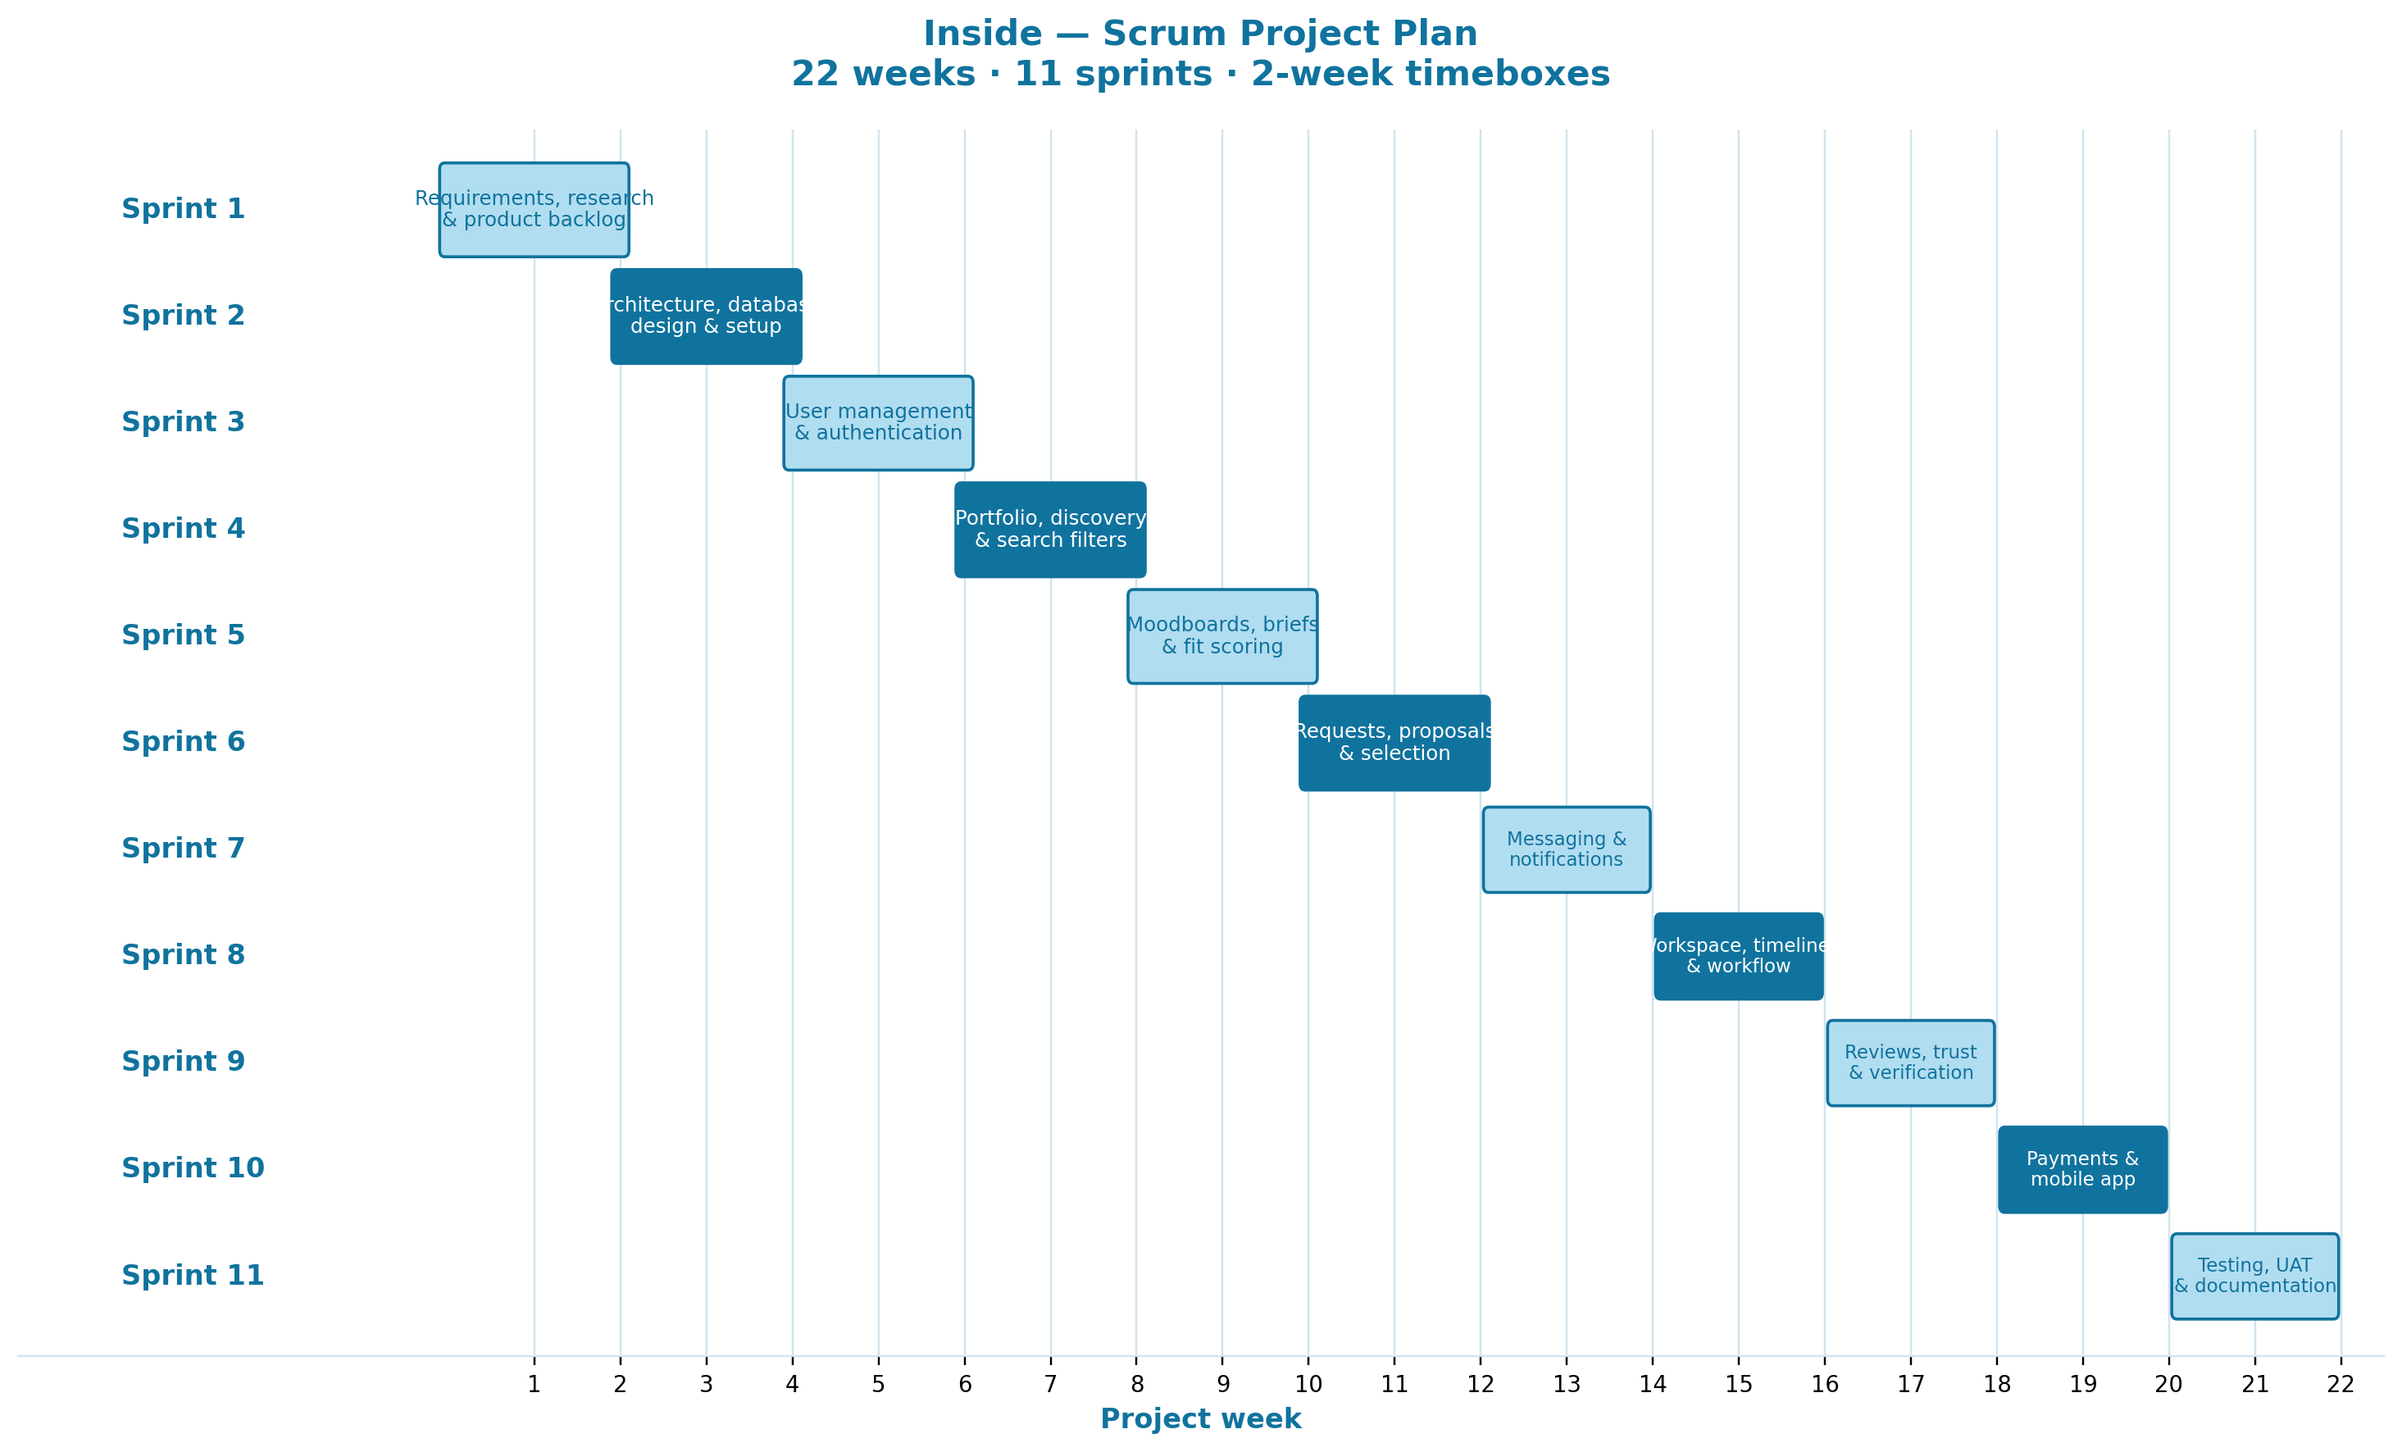
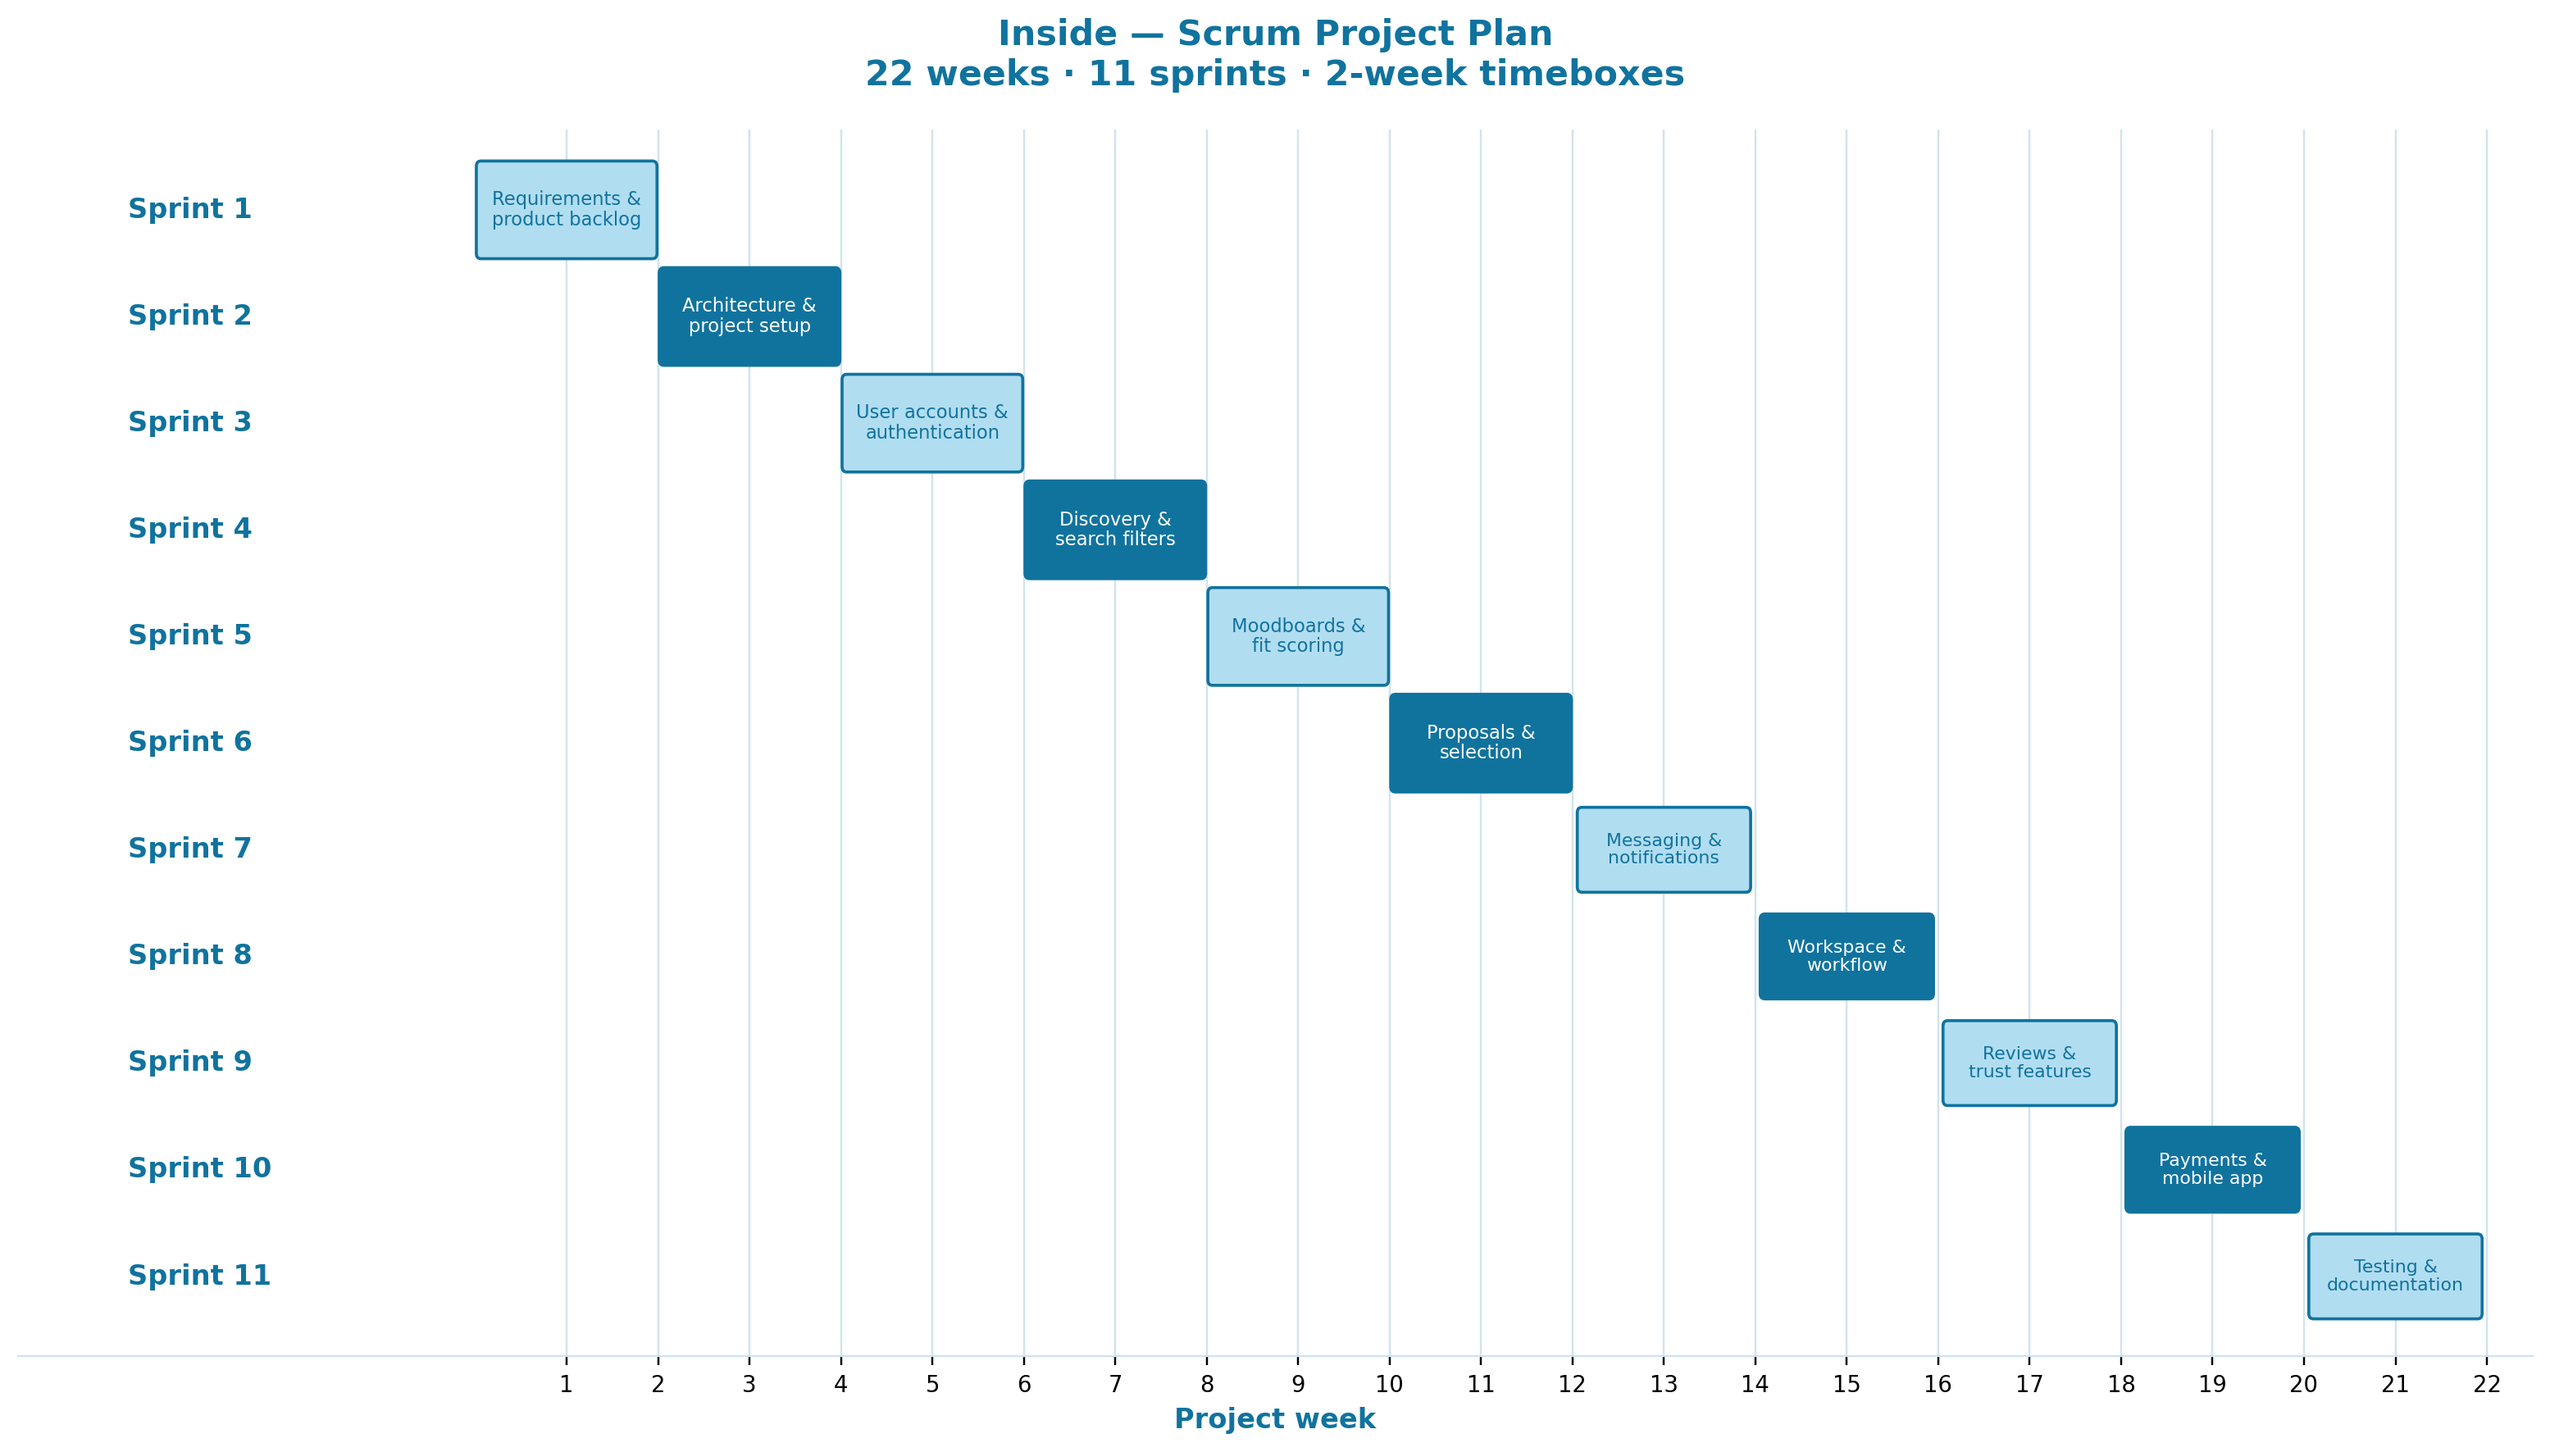
docs(proposal): Update diagrams and Gantt chart for project clarity
- Replace the Gantt chart image with an updated version to reflect the latest project timeline.
- Revise architecture diagrams and related documentation to incorporate new brand colors and improve visual consistency.
- Enhance the Gantt chart generation script for better layout and readability of sprint activities.
- Update diagram files to ensure alignment with the current project specifications and design objectives.

diff --git a/docs/Proposal/diagrams/generate-gantt.py b/docs/Proposal/diagrams/generate-gantt.py
@@ -1,35 +1,44 @@
 """Generate Scrum sprint Gantt chart for Inside proposal."""
 import matplotlib.pyplot as plt
-from matplotlib.patches import FancyBboxPatch
+from matplotlib.patches import FancyBboxPatch, Rectangle
 
 COLOR_LIGHT = "#B1DDF0"
 COLOR_DARK = "#10739e"
 COLOR_TEXT_DARK = "#10739e"
 COLOR_GRID = "#d0e4ef"
 
-# (left label, activity text inside bar — 2 lines max)
+# (sprint label, activity inside bar)
 SPRINTS = [
-    ("Sprint 1", "Requirements, research\n& product backlog"),
-    ("Sprint 2", "Architecture, database\ndesign & setup"),
-    ("Sprint 3", "User management\n& authentication"),
-    ("Sprint 4", "Portfolio, discovery\n& search filters"),
-    ("Sprint 5", "Moodboards, briefs\n& fit scoring"),
-    ("Sprint 6", "Requests, proposals\n& selection"),
+    ("Sprint 1", "Requirements &\nproduct backlog"),
+    ("Sprint 2", "Architecture &\nproject setup"),
+    ("Sprint 3", "User accounts &\nauthentication"),
+    ("Sprint 4", "Discovery &\nsearch filters"),
+    ("Sprint 5", "Moodboards &\nfit scoring"),
+    ("Sprint 6", "Proposals &\nselection"),
     ("Sprint 7", "Messaging &\nnotifications"),
-    ("Sprint 8", "Workspace, timelines\n& workflow"),
-    ("Sprint 9", "Reviews, trust\n& verification"),
+    ("Sprint 8", "Workspace &\nworkflow"),
+    ("Sprint 9", "Reviews &\ntrust features"),
     ("Sprint 10", "Payments &\nmobile app"),
-    ("Sprint 11", "Testing, UAT\n& documentation"),
+    ("Sprint 11", "Testing &\ndocumentation"),
 ]
 
 BAR_WEEKS = 2
 BAR_HEIGHT = 0.78
-BAR_HEIGHT_WIDE = 0.86
-BAR_WEEKS_WIDE = 2.18  # wider bars for Sprint 1–6 (text fit); still 2-week timeboxes
 LABEL_X = -3.8
 
+# Sprint 1–6: full-width bar inside the 2-week slot (no overlap past week boundaries)
+WIDE_COUNT = 6
+WIDE_PAD_X = 0.02
+WIDE_BAR_W = BAR_WEEKS - 2 * WIDE_PAD_X
+WIDE_BAR_H = 0.9
+WIDE_FONT = 7.4
 
-fig, ax = plt.subplots(figsize=(16, 8.5))
+NARROW_PAD_X = 0.06
+NARROW_BAR_W = BAR_WEEKS - 2 * NARROW_PAD_X
+NARROW_FONT = 7.2
+
+
+fig, ax = plt.subplots(figsize=(17, 8.5))
 fig.patch.set_facecolor("white")
 
 n = len(SPRINTS)
@@ -39,26 +48,25 @@ for i, (sprint_label, activity) in enumerate(SPRINTS):
     color = COLOR_LIGHT if i % 2 == 0 else COLOR_DARK
     text_color = COLOR_TEXT_DARK if i % 2 == 0 else "white"
 
-    if i < 6:
-        bar_w = BAR_WEEKS_WIDE
-        bar_h = BAR_HEIGHT_WIDE
-        bar_x = start + (BAR_WEEKS - bar_w) / 2
-        font_size = 8
+    if i < WIDE_COUNT:
+        bar_x = start + WIDE_PAD_X
+        bar_w = WIDE_BAR_W
+        bar_h = WIDE_BAR_H
+        font_size = WIDE_FONT
     else:
-        bar_w = BAR_WEEKS - 0.08
+        bar_x = start + NARROW_PAD_X
+        bar_w = NARROW_BAR_W
         bar_h = BAR_HEIGHT
-        bar_x = start + 0.04
-        font_size = 7.5
+        font_size = NARROW_FONT
 
     bar = FancyBboxPatch(
         (bar_x, y - bar_h / 2),
         bar_w,
         bar_h,
-        boxstyle="round,pad=0.01,rounding_size=0.06",
+        boxstyle="round,pad=0.008,rounding_size=0.05",
         facecolor=color,
         edgecolor=COLOR_DARK,
         linewidth=1.2,
-        transform=ax.transData,
     )
     ax.add_patch(bar)
 
@@ -71,10 +79,20 @@ for i, (sprint_label, activity) in enumerate(SPRINTS):
         fontsize=11,
         fontweight="bold",
         color=COLOR_TEXT_DARK,
+        clip_on=True,
     )
 
-    ax.text(
-        start + BAR_WEEKS / 2,
+    text_x = bar_x + bar_w / 2
+    clip_rect = Rectangle(
+        (bar_x, y - bar_h / 2),
+        bar_w,
+        bar_h,
+        transform=ax.transData,
+        visible=False,
+    )
+    ax.add_patch(clip_rect)
+    label = ax.text(
+        text_x,
         y,
         activity,
         ha="center",
@@ -82,9 +100,10 @@ for i, (sprint_label, activity) in enumerate(SPRINTS):
         fontsize=font_size,
         color=text_color,
         fontweight="medium",
-        linespacing=1.12,
-        zorder=3,
+        linespacing=1.1,
+        zorder=4,
     )
+    label.set_clip_path(clip_rect)
 
 ax.set_xlim(-5, 22.5)
 ax.set_ylim(0.25, n + 0.75)

diff --git a/docs/Proposal/diagrams/architecture-diagrams.md b/docs/Proposal/diagrams/architecture-diagrams.md
@@ -3,6 +3,8 @@
 **Project:** Inside — Interior Design Service Platform  
 **Stack:** Next.js + React Native + **Node.js / NestJS** + **PostgreSQL (Prisma)** + **Cloudinary** + **Stripe** + Cloud Hosting + GitHub
 
+**Brand colours (diagrams):** light `#B1DDF0` · dark `#10739e` (alternating fills; white text on dark)
+
 Match the **lecturer sample layout** ([Sample/](../Sample/)): Figure 1 = feature hub; Figure 2 = detailed three-tier.
 
 | Figure | Style (sample equivalent) | Export file | Source |
@@ -19,17 +21,18 @@ Match the **lecturer sample layout** ([Sample/](../Sample/)): Figure 1 = feature
 Central hub: **INSIDE — Interior Design Service Platform (Web & Mobile)**  
 Eight feature nodes with coloured arrows pointing **inward** to the centre (same layout as sample).
 
-| Position | Feature node | Colour (sample match) |
-|----------|--------------|------------------------|
-| 12 o'clock | Portfolio Discovery | Blue |
-| 1:30 | Moodboards & Brief | Orange |
-| 3 o'clock | Fit Scoring | Green |
-| 4:30 | Requests & Proposals (open + direct) | Orange |
-| 6 o'clock | Stage Workspace | Purple |
-| 7:30 | Milestone Payments | Blue |
-| 9 o'clock | Dual-Role Dashboards | Yellow |
-| 10:30 | Notifications & Messaging | Green |
-| (extended) | Trust & Safety · Admin | Grey (see Figure 2) |
+| Position | Feature node | Colour |
+|----------|--------------|--------|
+| 12 o'clock | Portfolio Discovery | Light `#B1DDF0` / stroke `#10739e` |
+| 1:30 | Moodboards & Brief | Dark `#10739e` / white text |
+| 3 o'clock | Fit Scoring | Light |
+| 4:30 | Requests & Proposals | Dark |
+| 6 o'clock | Stage Workspace | Light |
+| 7:30 | Milestone Payments | Dark |
+| 9 o'clock | Dual-Role Dashboards | Light |
+| 10:30 | Notifications & Messaging | Dark |
+| Centre hub | INSIDE platform | Dark `#10739e` |
+| Figure 2 | Trust & Safety · Admin · Messaging modules | See detailed architecture |
 
 ### Mermaid (export fallback)
 
@@ -55,15 +58,15 @@ flowchart TB
     F7 --> Hub
     F8 --> Hub
 
-    style Hub fill:#2563eb,stroke:#1e40af,color:#fff
-    style F1 fill:#dbeafe,stroke:#2563eb
-    style F2 fill:#ffedd5,stroke:#ea580c
-    style F3 fill:#dcfce7,stroke:#16a34a
-    style F4 fill:#ffedd5,stroke:#ea580c
-    style F5 fill:#f3e8ff,stroke:#9333ea
-    style F6 fill:#dbeafe,stroke:#2563eb
-    style F7 fill:#fef9c3,stroke:#ca8a04
-    style F8 fill:#dcfce7,stroke:#16a34a
+    style Hub fill:#10739e,stroke:#10739e,color:#fff
+    style F1 fill:#B1DDF0,stroke:#10739e,color:#10739e
+    style F2 fill:#10739e,stroke:#10739e,color:#fff
+    style F3 fill:#B1DDF0,stroke:#10739e,color:#10739e
+    style F4 fill:#10739e,stroke:#10739e,color:#fff
+    style F5 fill:#B1DDF0,stroke:#10739e,color:#10739e
+    style F6 fill:#10739e,stroke:#10739e,color:#fff
+    style F7 fill:#B1DDF0,stroke:#10739e,color:#10739e
+    style F8 fill:#10739e,stroke:#10739e,color:#fff
 ```
 
 ---
@@ -191,22 +194,26 @@ flowchart TB
 
     PR --> DB
 
-    style Web fill:#dcfce7,stroke:#16a34a
-    style Mobile fill:#f3e8ff,stroke:#9333ea
-    style MW fill:#fecaca,stroke:#dc2626
-    style PR fill:#e0e7ff,stroke:#4338ca
-    style M1 fill:#dcfce7,stroke:#16a34a
-    style M2 fill:#dcfce7,stroke:#16a34a
-    style M3 fill:#dcfce7,stroke:#16a34a
-    style M4 fill:#dcfce7,stroke:#16a34a
-    style M5 fill:#dcfce7,stroke:#16a34a
-    style M6 fill:#dcfce7,stroke:#16a34a
-    style M7 fill:#dcfce7,stroke:#16a34a
-    style M8 fill:#ffedd5,stroke:#ea580c
-    style M9 fill:#ffedd5,stroke:#ea580c
-    style DB fill:#e9d5ff,stroke:#9333ea
-    style Ext fill:#dbeafe,stroke:#2563eb
-    style CL fill:#fef9c3,stroke:#ca8a04
+    style API fill:#10739e,stroke:#10739e,color:#fff
+    style Web fill:#B1DDF0,stroke:#10739e
+    style Mobile fill:#10739e,stroke:#10739e,color:#fff
+    style MW fill:#B1DDF0,stroke:#10739e
+    style PR fill:#10739e,stroke:#10739e,color:#fff
+    style M1 fill:#B1DDF0,stroke:#10739e
+    style M2 fill:#10739e,stroke:#10739e,color:#fff
+    style M3 fill:#B1DDF0,stroke:#10739e
+    style M4 fill:#10739e,stroke:#10739e,color:#fff
+    style M5 fill:#B1DDF0,stroke:#10739e
+    style M6 fill:#10739e,stroke:#10739e,color:#fff
+    style M7 fill:#B1DDF0,stroke:#10739e
+    style M8 fill:#10739e,stroke:#10739e,color:#fff
+    style M9 fill:#B1DDF0,stroke:#10739e
+    style M10 fill:#10739e,stroke:#10739e,color:#fff
+    style M11 fill:#B1DDF0,stroke:#10739e
+    style M12 fill:#10739e,stroke:#10739e,color:#fff
+    style DB fill:#B1DDF0,stroke:#10739e
+    style Ext fill:#B1DDF0,stroke:#10739e
+    style CL fill:#10739e,stroke:#10739e,color:#fff
 ```
 
 ### ASCII layout (sample-style)
